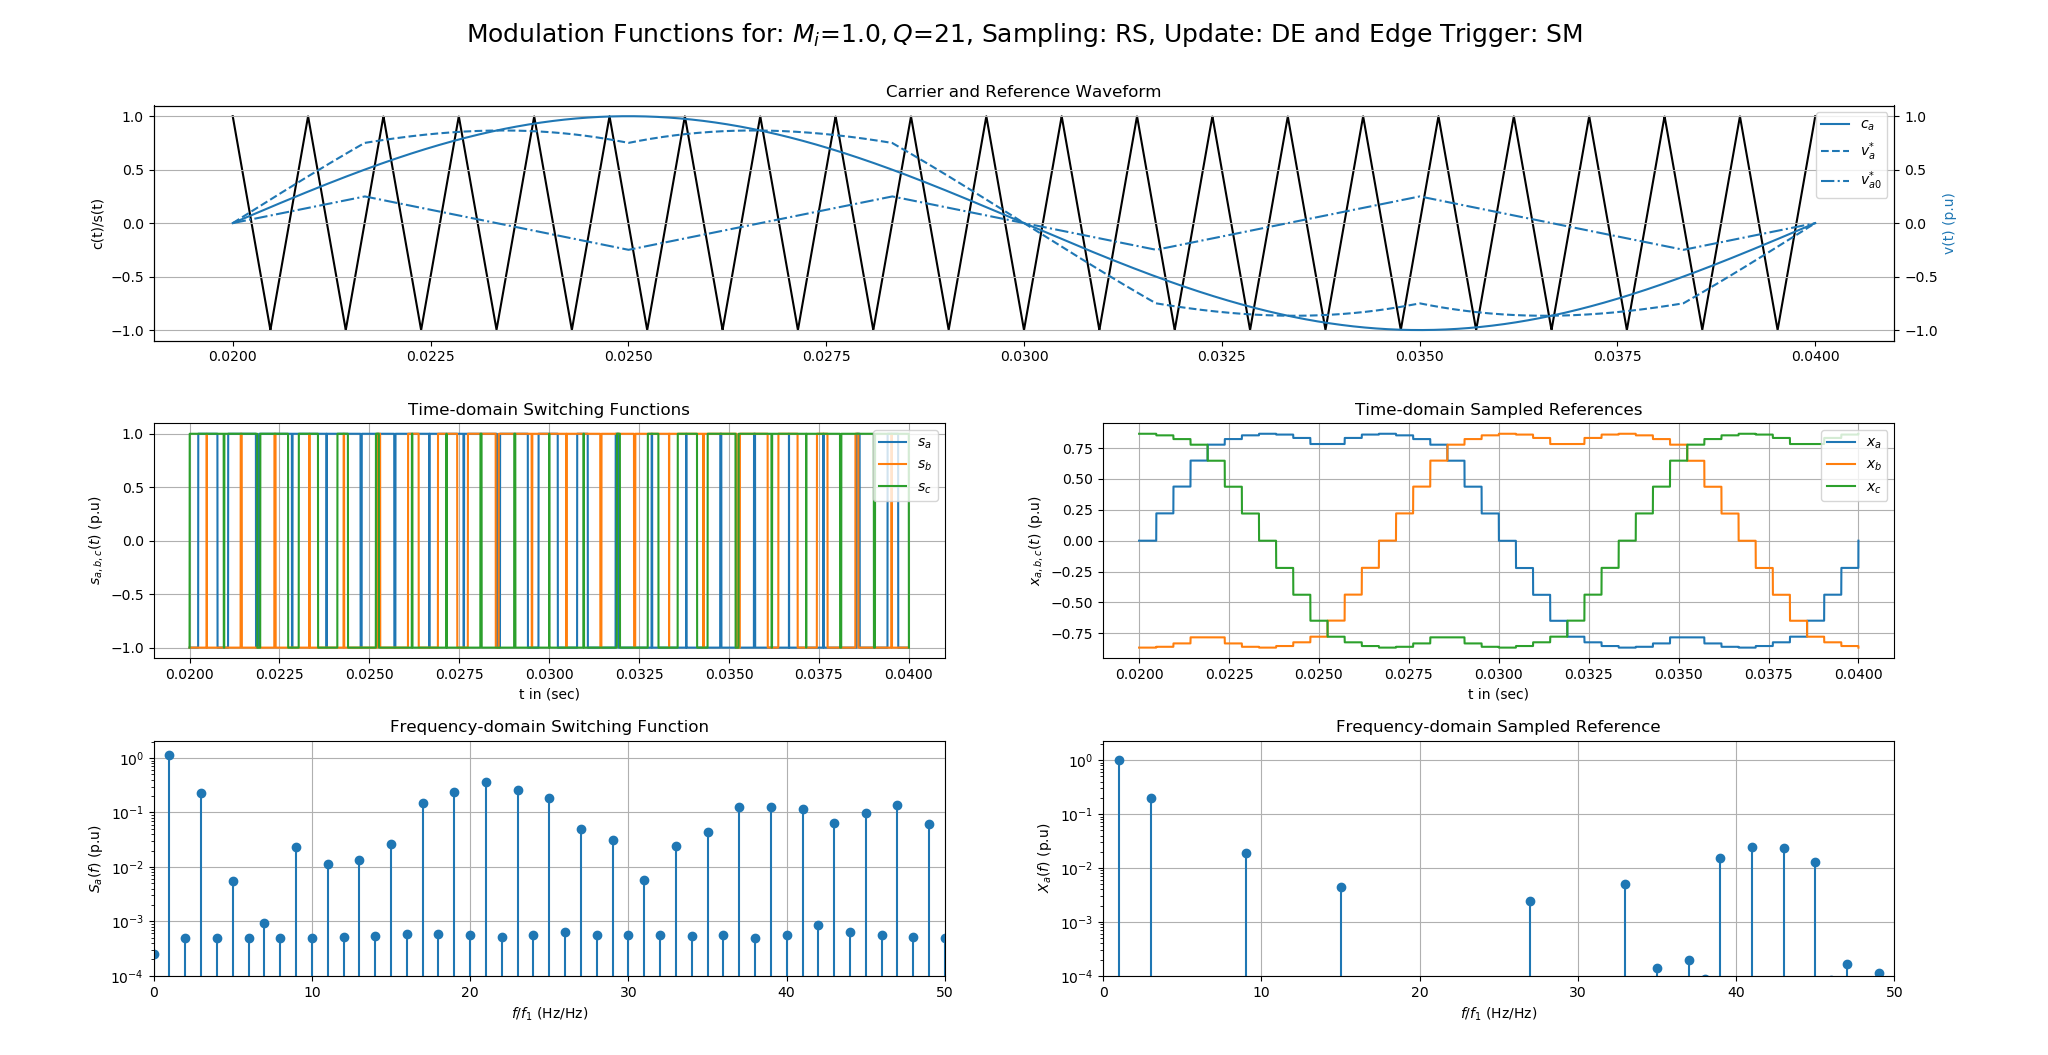
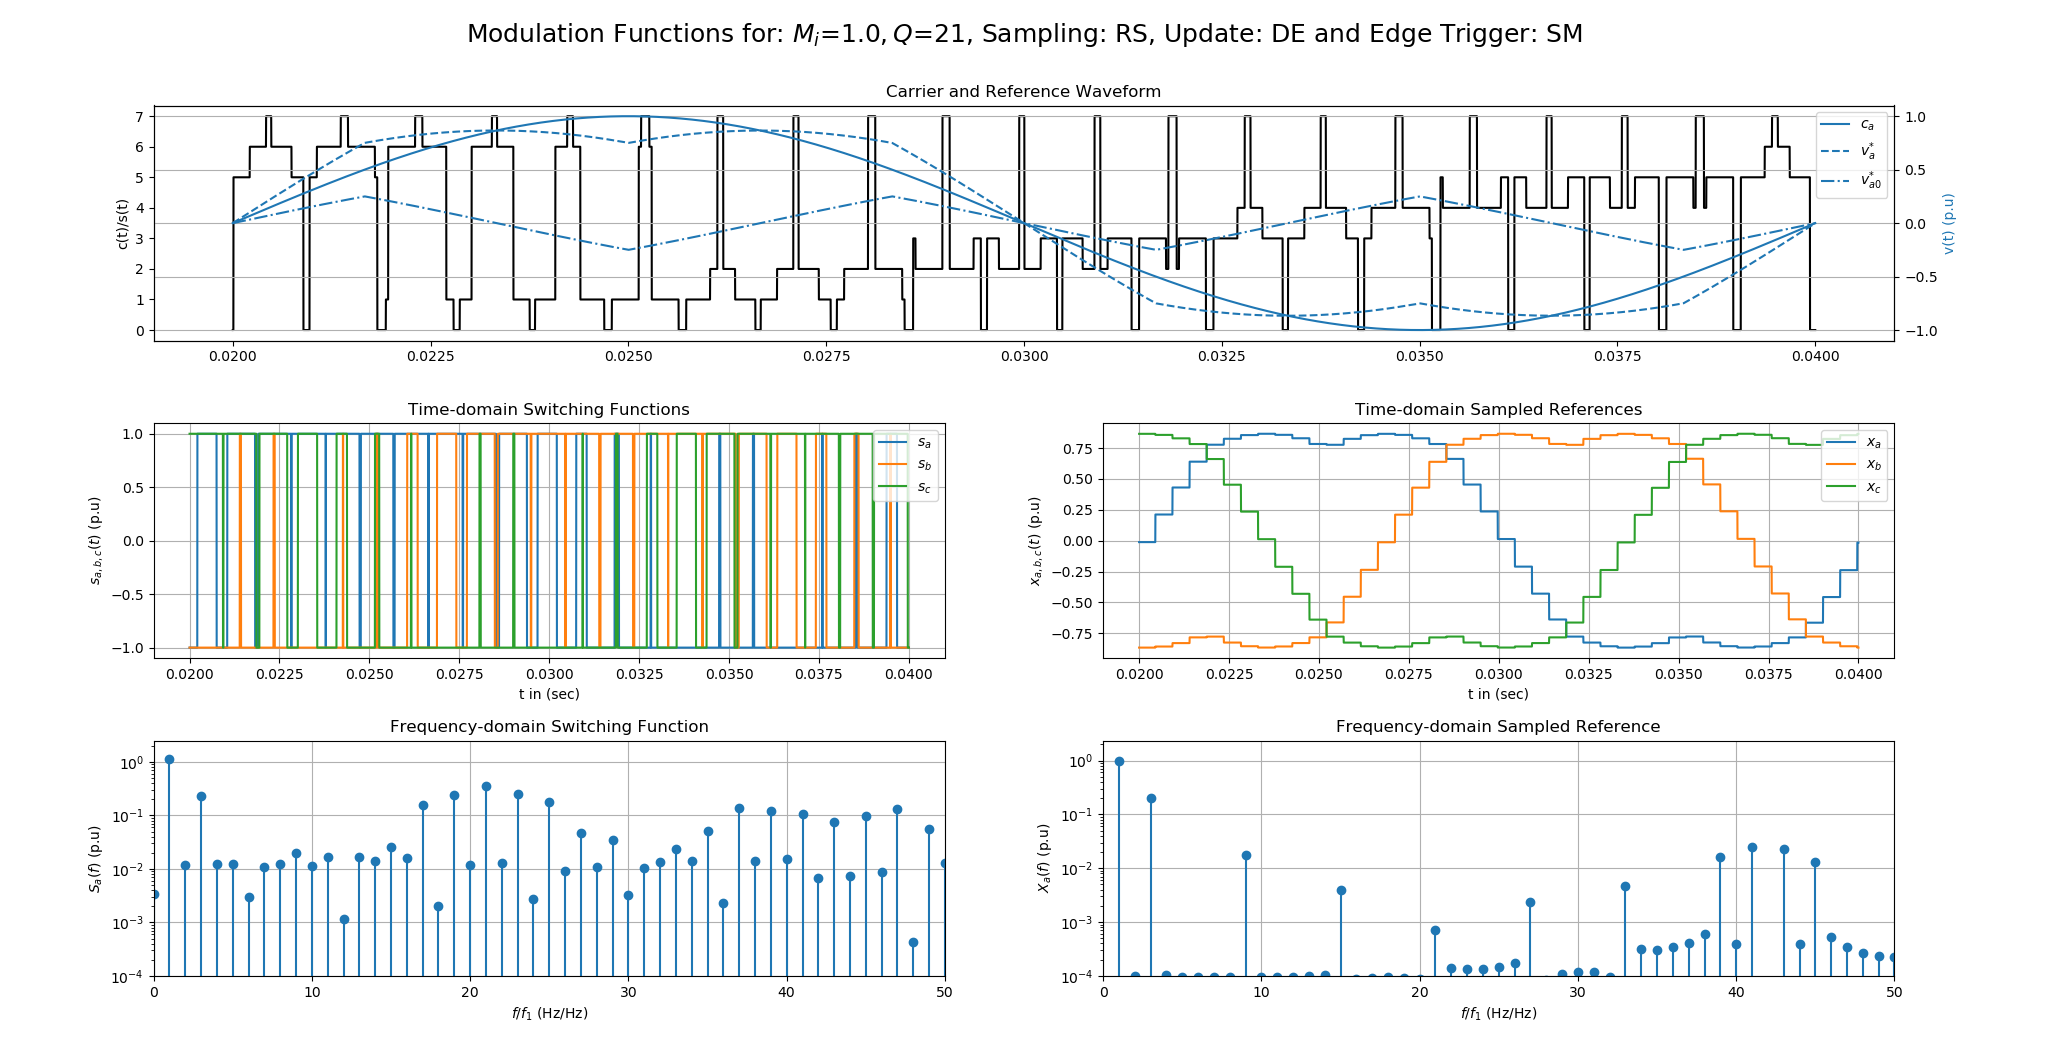
Adding steady

diff --git a/setup/default/defaultSteady.py b/setup/default/defaultSteady.py
@@ -2,7 +2,7 @@
 #######################################################################################################################
 # Title:        PWM Distortion Toolkit for Standard Topologies
 # Topic:        Power Electronics
-# File:         defaultSweep
+# File:         start
 # Date:         14.08.2023
 # Author:       Dr. Pascal A. Schirmer
 # Version:      V.0.2
@@ -48,7 +48,7 @@ setupPath = initPath('PyPowerSim')
 # ------------------------------------------
 # Experiment
 # ------------------------------------------
-setupExp['Name'] = "defaultSweep"                                                                                       # name of the simulation (str)
+setupExp['Name'] = "defaultSteady"                                                                                      # name of the simulation (str)
 setupExp['Author'] = "Pascal Schirmer"                                                                                  # name of the responsible person (str)
 setupExp['debug'] = 0                                                                                                   # (0): debug mode de-activated, (1): debug mode activated level-1, (2): debug mode activated level-2
 
@@ -56,8 +56,8 @@ setupExp['debug'] = 0                                                           
 # Operating Mode
 # ------------------------------------------
 setupExp['output'] = 'Mi'                                                                                               # (Mi): modulation index controlled, (V): voltage is controlled, (I): current is controlled, (P): active power is controlled, (Q): reactive power is controlled 
-setupExp['type'] = 0                                                                                                    # (0): sweep analysis, (1): steady-state analysis, (2): transient analysis
-setupExp['therFeed'] = 0                                                                                                # (0): no thermal coupling with electric losses, (1): thermal-electric coupling
+setupExp['type'] = 1                                                                                                    # (0): sweep analysis, (1): steady-state analysis, (2): transient analysis
+setupExp['therFeed'] = 1                                                                                                # (0): no thermal coupling with electric losses, (1): thermal-electric coupling
 setupExp['freqPar'] = 'fs'                                                                                              # (fs): values are updated earliest after switching cycle, (fel): values are updated earliest after fundamental cycle
 setupExp['freqAvg'] = 'none'                                                                                            # (none): no averaging is used (fs): values are averaged over switching cycle, (fel): values are averaged over fundamental cycle
 
@@ -201,7 +201,7 @@ setupPara['Elec']['CapSeries'] = 1                                              
 # Thermal Parameters
 # ==============================================================================
 setupPara['Ther']['Heatsink'] = 1                                                                                       # 1) using thermal capacities and resistances of heatsink RC model
-setupPara['Ther']['Coupling'] = 0                                                                                       # 0) no thermal coupling between diode and transistor, 1) thermal coupling between diode and transistor, 2) thermal coupling via whole converter
+setupPara['Ther']['Coupling'] = 1                                                                                       # 0) no thermal coupling between diode and transistor, 1) thermal coupling between diode and transistor, 2) thermal coupling via whole converter
 
 #######################################################################################################################
 # Calculations

diff --git a/start.py b/start.py
@@ -154,7 +154,7 @@ setupTopo['fel'] = 50                                                           
 # ------------------------------------------
 # General
 # ------------------------------------------
-setupPara['PWM']['type'] = "CB"                                                                                         # (FF): fundamental frequency, (CB): carrier based, (SV): space vector based
+setupPara['PWM']['type'] = "SV"                                                                                         # (FF): fundamental frequency, (CB): carrier based, (SV): space vector based
 setupPara['PWM']['upd'] = "DE"                                                                                          # (SE): single edge, (DE): double edge 
 setupPara['PWM']['samp'] = "RS"                                                                                         # (NS): natural sampling, (RS): regular sampling
 setupPara['PWM']['tri'] = "SM"                                                                                          # modulation trigger (RE): rising edge, (FE): falling edge, (SM): symmetrical modulation, (AM): asymmetrical modualtion
